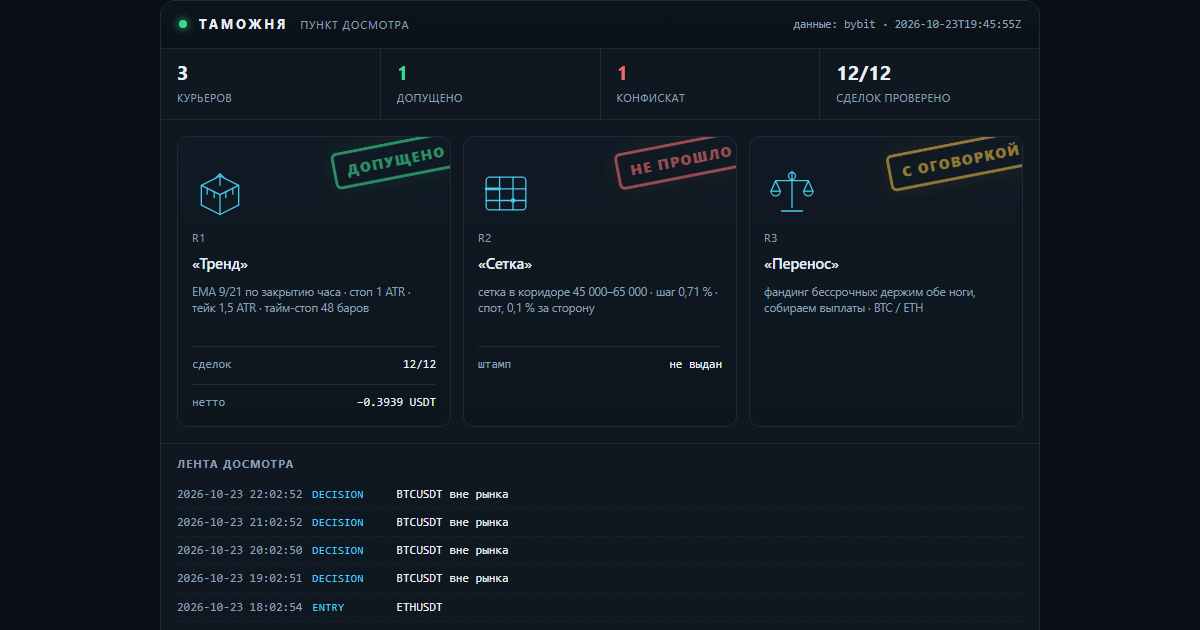
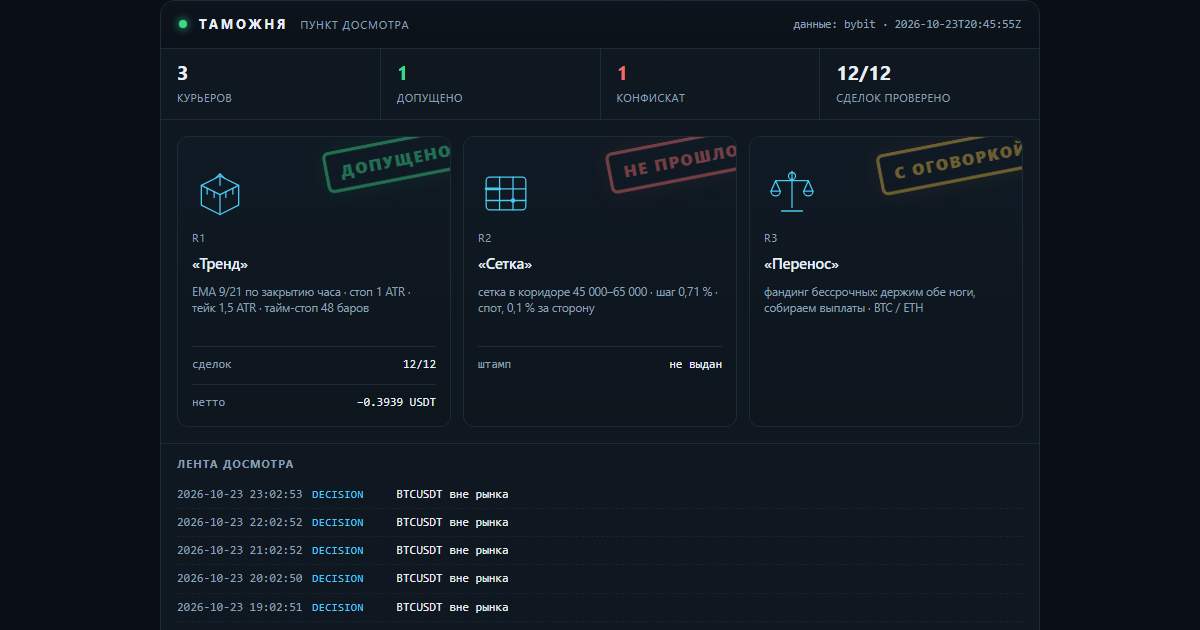
lab: таможня — свежие числа досмотра

diff --git a/docs/customs.html b/docs/customs.html
@@ -16,7 +16,7 @@
   <h1><a href="index.html">Gramwright Lab</a></h1>
   <p>Журнал проверки торговых гипотез: что проверяли, что вышло по факту, сколько съели издержки. Числа берутся из журнала стенда. Не инвестиционная рекомендация.</p>
 </header>
-<h1>Таможня</h1><p class="intro">Пункт досмотра заявленных результатов. Стратегии приезжают с грузом обещаний, и каждая проходит проверку по публичным данным биржи: цены существуют, комиссии по тарифу, нетто сходится. Что прошло — получает штамп. Что не прошло — в конфискат, с причиной. Штамп означает «записи подлинные», а не «стратегия прибыльна».</p><p><img src="img/customs.png" alt="Терминал досмотра: три курьера, штампы, лента событий" style="width:100%;height:auto;border:1px solid var(--line);border-radius:10px"></p><p class="c-note">Сверху — тот же терминал, что собирается из журналов: счётчики, эмблемы курьеров, штампы и лента последних событий. Ниже — то же самое текстом, чтобы читалось с телефона и индексировалось поиском.</p><article><h2>R1 «Тренд» <span class="verdict">— <span class="c-ok">допущено</span></span></h2><p><strong>Правило:</strong> EMA 9/21 по закрытию часа · стоп 1 ATR · тейк 1,5 ATR · тайм-стоп 48 баров</p><p><strong>Декларация:</strong> Заявлено до прогона: держать 30 сделок, лимит нотионала 10 % от счёта, стоп дня −1 %. Прибыль не заявлялась — это важно: курьер не обещал доход.</p><p><strong>Проверено по публичным свечам, без ключей:</strong> 12 из 12 сделок. Сумма нетто −0.3939 USDT.</p><ul class="c-chk"><li class="y">BTCUSDT: нетто −0.8746 USDT · комиссии 0.0901 · проверено · с поправкой</li><li class="y">BTCUSDT: нетто −0.5441 USDT · комиссии 0.0896 · проверено</li><li class="y">ETHUSDT: нетто −0.2253 USDT · комиссии 0.0266 · проверено</li><li class="y">ETHUSDT: нетто −0.1513 USDT · комиссии 0.0265 · проверено</li><li class="y">ETHUSDT: нетто +0.1984 USDT · комиссии 0.0262 · проверено</li><li class="y">ETHUSDT: нетто +0.1617 USDT · комиссии 0.0260 · проверено</li><li class="y">ETHUSDT: нетто +0.2645 USDT · комиссии 0.0263 · проверено</li><li class="y">BTCUSDT: нетто +0.6246 USDT · комиссии 0.0897 · проверено</li><li class="y">BTCUSDT: нетто −0.5881 USDT · комиссии 0.0910 · проверено</li><li class="y">ETHUSDT: нетто −0.2403 USDT · комиссии 0.0270 · проверено</li><li class="y">BTCUSDT: нетто +0.6908 USDT · комиссии 0.0908 · проверено</li><li class="y">ETHUSDT: нетто +0.2898 USDT · комиссии 0.0267 · проверено</li></ul><p class="tags">журнал sha256 f51dbc98da05f2dc… · проверяльщик verify-1</p><p class="c-note">Штамп означает: записи подлинные, а не что стратегия прибыльна. Курьер в минусе, и минус тоже стоит на штампе — иначе это была бы не проверка, а реклама.</p><p class="tags">источник: verify-report.json</p></article><article><h2>R2 «Сетка» <span class="verdict">— <span class="c-bad">не прошло</span></span></h2><p><strong>Правило:</strong> сетка в коридоре 45 000–65 000 · шаг 0,71 % · спот, 0,1 % за сторону</p><p><strong>Декларация:</strong> Заявлено: «44 % урожая уходит бирже в виде комиссий». Кроме того — перевес над простым владением монетой.</p><p><strong>Что сошлось:</strong></p><ul class="c-chk"><li class="y">сами числа пересчитаны и воспроизводятся: коридор 45–65k был активен 23 % всей истории и 28 % последних двух лет</li></ul><p><strong>Что не сошлось:</strong></p><ul class="c-chk"><li class="n">44 % не подтвердилось: при шаге 0,71 % и тарифе 0,1 % комиссия съедает 28,3 % шага. Чтобы получить 44 %, нужен шаг 0,45 % — это около 80 уровней, а не 50</li><li class="n">от урожая доля комиссий 85,5 % за всю историю и 49,6 % за последние два года — тоже не 44 %</li><li class="n">перевес над владением посчитан на тарифе 0,055 %: при нём +1,32 п. п., на розничном 0,1 % — −0,72 п. п. То есть перевес исчезает</li><li class="n">семилетний тест стартовал в сентябре 2019 при биткоине около 10 000 — ниже коридора. Он говорит, что фиксированный коридор не подходит для периода, а не что сетка отстаёт</li></ul><p class="tags">источник: lab_grid.py, пересчёт 17.10.2026</p></article><article><h2>R3 «Перенос» <span class="verdict">— <span class="c-warn">с оговоркой</span></span></h2><p><strong>Правило:</strong> фандинг бессрочных: держим обе ноги, собираем выплаты · BTC / ETH</p><p><strong>Декларация:</strong> Заявлено: около 11,9 % в год от выплат фандинга при просадке выплатной кривой меньше 2 %.</p><p><strong>Что сошлось:</strong></p><ul class="c-chk"><li class="y">выплаты взяты из публичной истории биржи, ключей не нужно: BTC — 7 190 выплат с 25.03.2020, ETH — 6 561 с 21.10.2020</li><li class="y">сумма сходится: +83,4 % и +83,2 % за 6,6 и 6,0 года — те самые ~11,9 % в год</li><li class="y">худшая просадка выплатной кривой: −1,65 % и −1,97 %</li></ul><p><strong>Что не сошлось:</strong></p><ul class="c-chk"><li class="n">оговорка 1: премию сжали — 2021 год дал +38,3 %, 2026 — +1,96 %. Прошлое не повторяется</li><li class="n">оговорка 2: вход-выход стоит около 0,31 %, капитала нужно 1,2 от нотионала, текущий базис −0,082 % против входа</li><li class="n">оговорка 3: риск площадки. История FTX в этой же таблице выглядела так же прилично</li></ul><p class="tags">источник: публичная история фандинга Bybit, замер 17.10.2026</p></article><div class="c-conf"><h3>Конфискат</h3><p><strong>«Сетка»: заявленные 44 % комиссий не подтвердились.</strong> Досмотр показал 28,3 % от шага и 85,5 % от урожая — цифра хуже заявленной по форме, но лучше по смыслу: сетку убивает не размер шага, а то, что урожай почти весь уходит в комиссии. Это и вышло в выпуск — с поправкой, а не с красивой цифрой.</p></div><p class="c-note">Пломба: <code>2026-10-23T19:45:55Z</code> · нотариус FreeTSA · Oct 23 19:45:55 2026 GMT · подпись подтверждена. Манифест скрепляет отчёт проверки, журнал сделок и декларации курьеров: подменишь любую цифру — пломба перестанет сходиться.</p><p class="c-note">Досмотр идёт по публичным минутным свечам и публичной истории фандинга — ключей у проверяющего нет, и он может повторить проверку сам.</p><p class="c-note">Контент образовательный, не является инвестиционной рекомендацией. Торговля связана с риском потери капитала.</p>
+<h1>Таможня</h1><p class="intro">Пункт досмотра заявленных результатов. Стратегии приезжают с грузом обещаний, и каждая проходит проверку по публичным данным биржи: цены существуют, комиссии по тарифу, нетто сходится. Что прошло — получает штамп. Что не прошло — в конфискат, с причиной. Штамп означает «записи подлинные», а не «стратегия прибыльна».</p><p><img src="img/customs.png" alt="Терминал досмотра: три курьера, штампы, лента событий" style="width:100%;height:auto;border:1px solid var(--line);border-radius:10px"></p><p class="c-note">Сверху — тот же терминал, что собирается из журналов: счётчики, эмблемы курьеров, штампы и лента последних событий. Ниже — то же самое текстом, чтобы читалось с телефона и индексировалось поиском.</p><article><h2>R1 «Тренд» <span class="verdict">— <span class="c-ok">допущено</span></span></h2><p><strong>Правило:</strong> EMA 9/21 по закрытию часа · стоп 1 ATR · тейк 1,5 ATR · тайм-стоп 48 баров</p><p><strong>Декларация:</strong> Заявлено до прогона: держать 30 сделок, лимит нотионала 10 % от счёта, стоп дня −1 %. Прибыль не заявлялась — это важно: курьер не обещал доход.</p><p><strong>Проверено по публичным свечам, без ключей:</strong> 12 из 12 сделок. Сумма нетто −0.3939 USDT.</p><ul class="c-chk"><li class="y">BTCUSDT: нетто −0.8746 USDT · комиссии 0.0901 · проверено · с поправкой</li><li class="y">BTCUSDT: нетто −0.5441 USDT · комиссии 0.0896 · проверено</li><li class="y">ETHUSDT: нетто −0.2253 USDT · комиссии 0.0266 · проверено</li><li class="y">ETHUSDT: нетто −0.1513 USDT · комиссии 0.0265 · проверено</li><li class="y">ETHUSDT: нетто +0.1984 USDT · комиссии 0.0262 · проверено</li><li class="y">ETHUSDT: нетто +0.1617 USDT · комиссии 0.0260 · проверено</li><li class="y">ETHUSDT: нетто +0.2645 USDT · комиссии 0.0263 · проверено</li><li class="y">BTCUSDT: нетто +0.6246 USDT · комиссии 0.0897 · проверено</li><li class="y">BTCUSDT: нетто −0.5881 USDT · комиссии 0.0910 · проверено</li><li class="y">ETHUSDT: нетто −0.2403 USDT · комиссии 0.0270 · проверено</li><li class="y">BTCUSDT: нетто +0.6908 USDT · комиссии 0.0908 · проверено</li><li class="y">ETHUSDT: нетто +0.2898 USDT · комиссии 0.0267 · проверено</li></ul><p class="tags">журнал sha256 46e40bbb0361d1b0… · проверяльщик verify-1</p><p class="c-note">Штамп означает: записи подлинные, а не что стратегия прибыльна. Курьер в минусе, и минус тоже стоит на штампе — иначе это была бы не проверка, а реклама.</p><p class="tags">источник: verify-report.json</p></article><article><h2>R2 «Сетка» <span class="verdict">— <span class="c-bad">не прошло</span></span></h2><p><strong>Правило:</strong> сетка в коридоре 45 000–65 000 · шаг 0,71 % · спот, 0,1 % за сторону</p><p><strong>Декларация:</strong> Заявлено: «44 % урожая уходит бирже в виде комиссий». Кроме того — перевес над простым владением монетой.</p><p><strong>Что сошлось:</strong></p><ul class="c-chk"><li class="y">сами числа пересчитаны и воспроизводятся: коридор 45–65k был активен 23 % всей истории и 28 % последних двух лет</li></ul><p><strong>Что не сошлось:</strong></p><ul class="c-chk"><li class="n">44 % не подтвердилось: при шаге 0,71 % и тарифе 0,1 % комиссия съедает 28,3 % шага. Чтобы получить 44 %, нужен шаг 0,45 % — это около 80 уровней, а не 50</li><li class="n">от урожая доля комиссий 85,5 % за всю историю и 49,6 % за последние два года — тоже не 44 %</li><li class="n">перевес над владением посчитан на тарифе 0,055 %: при нём +1,32 п. п., на розничном 0,1 % — −0,72 п. п. То есть перевес исчезает</li><li class="n">семилетний тест стартовал в сентябре 2019 при биткоине около 10 000 — ниже коридора. Он говорит, что фиксированный коридор не подходит для периода, а не что сетка отстаёт</li></ul><p class="tags">источник: lab_grid.py, пересчёт 17.10.2026</p></article><article><h2>R3 «Перенос» <span class="verdict">— <span class="c-warn">с оговоркой</span></span></h2><p><strong>Правило:</strong> фандинг бессрочных: держим обе ноги, собираем выплаты · BTC / ETH</p><p><strong>Декларация:</strong> Заявлено: около 11,9 % в год от выплат фандинга при просадке выплатной кривой меньше 2 %.</p><p><strong>Что сошлось:</strong></p><ul class="c-chk"><li class="y">выплаты взяты из публичной истории биржи, ключей не нужно: BTC — 7 190 выплат с 25.03.2020, ETH — 6 561 с 21.10.2020</li><li class="y">сумма сходится: +83,4 % и +83,2 % за 6,6 и 6,0 года — те самые ~11,9 % в год</li><li class="y">худшая просадка выплатной кривой: −1,65 % и −1,97 %</li></ul><p><strong>Что не сошлось:</strong></p><ul class="c-chk"><li class="n">оговорка 1: премию сжали — 2021 год дал +38,3 %, 2026 — +1,96 %. Прошлое не повторяется</li><li class="n">оговорка 2: вход-выход стоит около 0,31 %, капитала нужно 1,2 от нотионала, текущий базис −0,082 % против входа</li><li class="n">оговорка 3: риск площадки. История FTX в этой же таблице выглядела так же прилично</li></ul><p class="tags">источник: публичная история фандинга Bybit, замер 17.10.2026</p></article><div class="c-conf"><h3>Конфискат</h3><p><strong>«Сетка»: заявленные 44 % комиссий не подтвердились.</strong> Досмотр показал 28,3 % от шага и 85,5 % от урожая — цифра хуже заявленной по форме, но лучше по смыслу: сетку убивает не размер шага, а то, что урожай почти весь уходит в комиссии. Это и вышло в выпуск — с поправкой, а не с красивой цифрой.</p></div><p class="c-note">Пломба: <code>2026-10-23T20:45:55Z</code> · нотариус FreeTSA · Oct 23 20:45:55 2026 GMT · подпись подтверждена. Манифест скрепляет отчёт проверки, журнал сделок и декларации курьеров: подменишь любую цифру — пломба перестанет сходиться.</p><p class="c-note">Досмотр идёт по публичным минутным свечам и публичной истории фандинга — ключей у проверяющего нет, и он может повторить проверку сам.</p><p class="c-note">Контент образовательный, не является инвестиционной рекомендацией. Торговля связана с риском потери капитала.</p>
 <footer class="site">
   Код стенда и аудитора: <a href="https://github.com/XSlaidx/truth-engine">XSlaidx/truth-engine</a>
   &middot; <a href="graveyard.html">кладбище правил</a>
